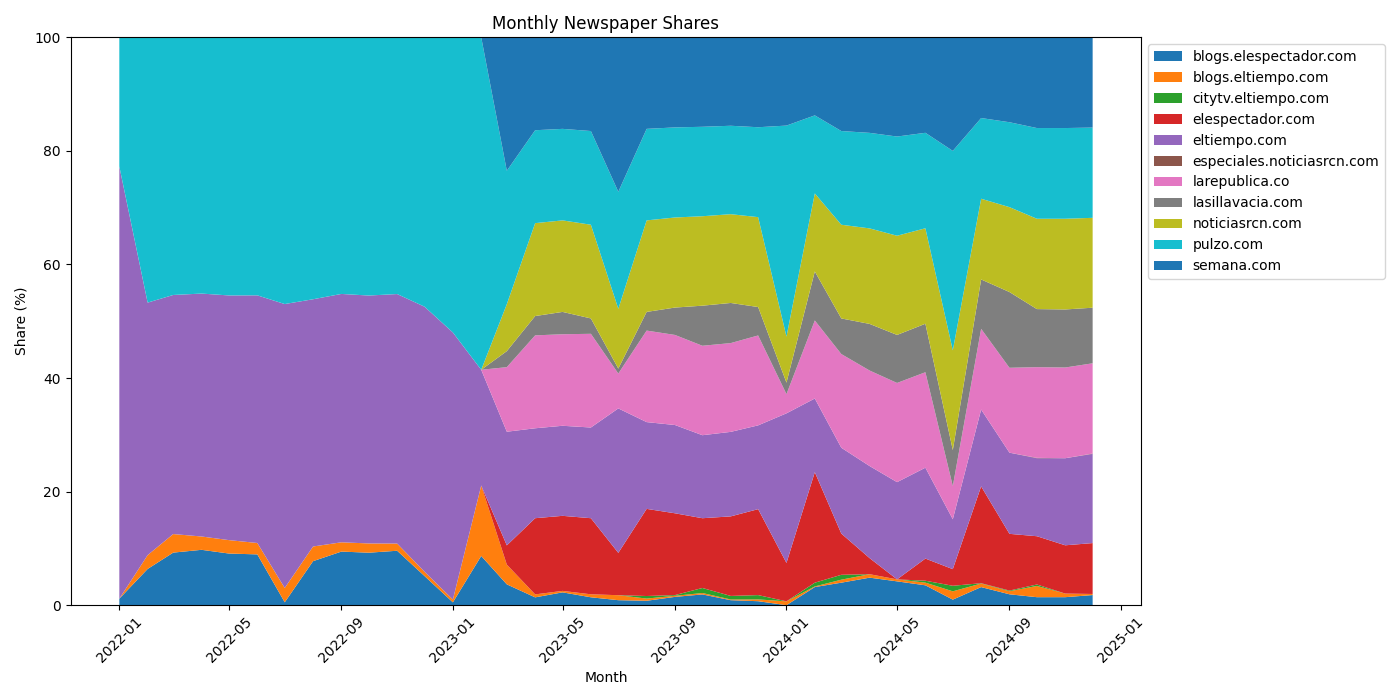
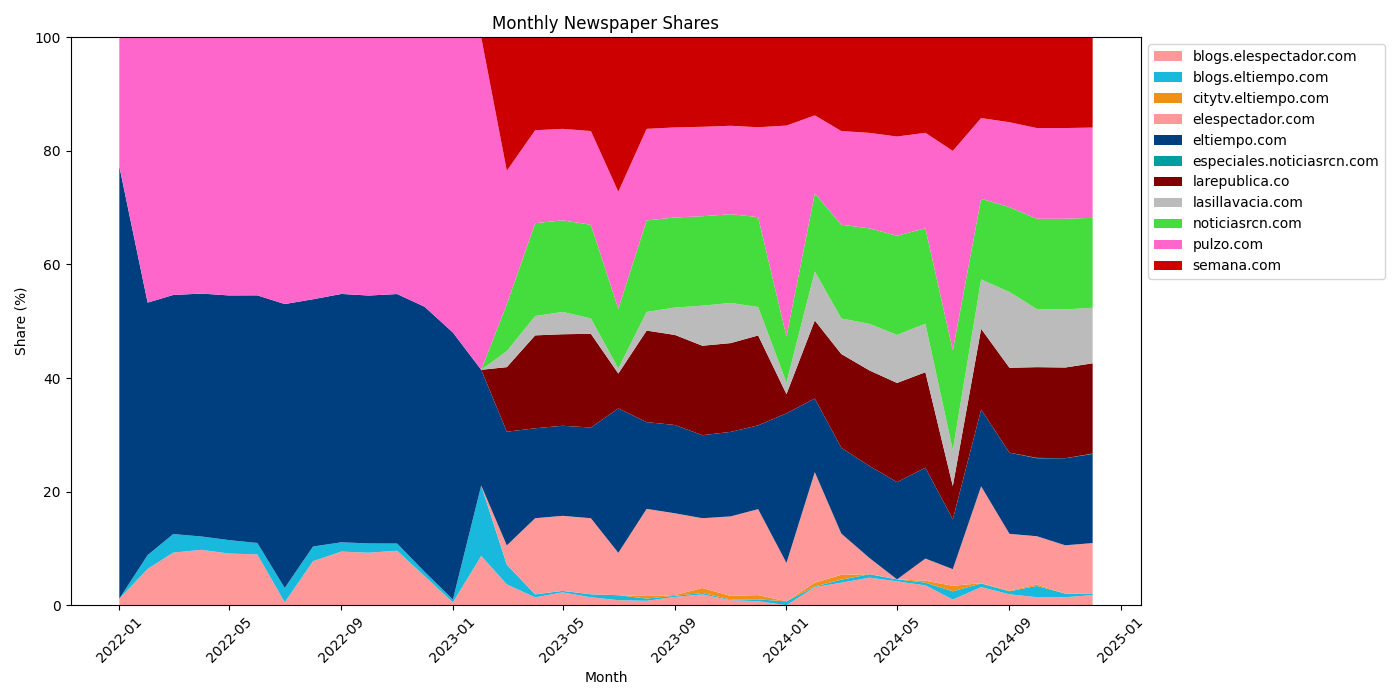
Added new graph and fixed colors

diff --git a/scripts/6_IPEC_newspapers_shares.py b/scripts/6_IPEC_newspapers_shares.py
@@ -1,1 +1,81 @@
-# Permite ver que periodicos son mas "sensacionalistas", o difunden más incertidumbre 
+import pandas as pd
+import unicodedata, re
+
+df_2022 = pd.read_csv("stores/noticias_completas_2022.csv", sep='~')
+df_2023 = pd.read_csv("stores/noticias_completas_2023.csv", sep='~')
+df_2024 = pd.read_csv("stores/noticias_completas_2024.csv", sep='~')
+df = pd.concat([df_2022, df_2023, df_2024], ignore_index=True)
+
+categories = {
+    "Uncertainty": ["incertidumbre", "incierto", "incierta"], 
+    "Economy": ["economia", "economico", "economica"],
+    "Policy": [
+        # Fiscal
+        "gobierno", "politica fiscal", "presupuesto", "deficit fiscal",
+        "deuda publica", "impuesto", "tributaria", "tributario",
+        "ministerio de hacienda", "gasto publico",
+        # Monetary
+        "politica monetaria", "banco de la republica", "emisor",
+        # Trade
+        "arancel", "arancelaria", "aranceles", "politica comercial"
+    ]
+}
+
+df["fecha"] = pd.to_datetime(df["fecha"])
+df = df[df["texto"].notna() & (df["texto"] != "")]
+
+def clean_text(text):
+    if pd.isna(text):
+        return ""
+    text = unicodedata.normalize("NFKD", text).encode("ascii", "ignore").decode("utf-8")
+    text = text.lower()
+    text = re.sub(r"[^a-z0-9\s]", " ", text)
+    return text
+
+df["clean"] = (df["titulo"].fillna("") + " " + df["texto"].fillna("")).apply(clean_text)
+
+def contains_any(text, keywords):
+    return any(kw in text for kw in keywords)
+
+df["has_uncertainty"] = df["clean"].apply(lambda x: contains_any(x, categories["Uncertainty"]))
+df["has_economy"] = df["clean"].apply(lambda x: contains_any(x, categories["Economy"]))
+df["has_policy"] = df["clean"].apply(lambda x: contains_any(x, categories["Policy"]))
+
+# IPEC criteria
+df["selected"] = df["has_uncertainty"] & df["has_economy"] & df["has_policy"]
+
+domains = [
+    "https://blogs.elespectador.com",
+    "https://blogs.eltiempo.com",
+    "https://citytv.eltiempo.com",
+    "https://especiales.noticiasrcn.com",
+    "https://www.elespectador.com",
+    "https://www.eltiempo.com",
+    "https://www.larepublica.co",
+    "https://www.lasillavacia.com",
+    "https://www.noticiasrcn.com",
+    "https://www.pulzo.com",
+    "https://www.semana.com"
+]
+
+df = df[df["url"].str.startswith(tuple(domains), na=False)]
+
+df_selected = df[df["selected"]].copy()
+
+# Newspapers shares for IPEC-selected articles
+df_selected["year_month"] = df_selected["fecha"].dt.to_period("M")
+
+df_selected["domain"] = df_selected["url"].str.extract(
+    r"https?://(?:www\.)?([^/\s]+)", re.IGNORECASE
+)
+
+shares_selected = (
+    df_selected.groupby(["year_month", "domain"])
+    .size()
+    .unstack(fill_value=0)
+)
+
+# Save output
+shares_selected.reset_index().to_csv(
+    "stores/newspapers_shares_IPEC_selected.csv", index=False
+)

diff --git a/scripts/9_visualizations.py b/scripts/9_visualizations.py
@@ -53,25 +53,49 @@ plt.tight_layout()
 plt.savefig("figures/IPEC_comparison_el_tiempo_2022_2024.png")
 
 # Plot 3 - Newspaper Shares Stacked Area Chart
+
+colors = {
+    "elespectador.com": "#ff9999",   
+    "blogs.elespectador.com": "#ff9999",
+
+    "eltiempo.com": "#003f7f",      
+    "blogs.eltiempo.com": "#18b9dd",
+    "citytv.eltiempo.com": "#f18f18",
+
+    "larepublica.co": "#7f0000",     
+
+    "noticiasrcn.com": "#45dd3d",    
+    "especiales.noticiasrcn.com": "#009e9e",
+
+    "pulzo.com": "#ff66cc",         
+
+    "semana.com": "#cc0000",         
+}
+
+def get_color_list(df):
+    return [colors.get(col, "#bbbbbb") for col in df.columns]  # fallback = gray
+
+
 plt.clf()
 df = pd.read_csv("stores/newspapers_shares.csv")
 
 df["year_month"] = pd.to_datetime(df["year_month"])
-
-# Set index
 df = df.set_index("year_month")
 
-# Normalize each row to 100% (share)
+# Normalize to row shares (percentages)
 shares = df.div(df.sum(axis=1), axis=0) * 100
 
-# Plot
 plt.figure(figsize=(14, 7))
-plt.stackplot(shares.index, shares.T, labels=shares.columns)
+plt.stackplot(
+    shares.index,
+    shares.T,
+    labels=shares.columns,
+    colors=get_color_list(shares)
+)
 
 plt.title("Monthly Newspaper Shares")
 plt.ylabel("Share (%)")
 plt.xlabel("Month")
-
 plt.xticks(rotation=45)
 plt.ylim(0, 100)
 
@@ -81,7 +105,36 @@ plt.tight_layout()
 plt.savefig("figures/newspaper_shares_stacked_area.png")
 
 
-# Plot 4 - Monthly Sector Distribution Stacked Bar Charts
+# Plot 4 - Newspaper Shares IPEC Stacked Area Chart
+plt.clf()
+df = pd.read_csv("stores/newspapers_shares_IPEC_selected.csv")
+
+df["year_month"] = pd.to_datetime(df["year_month"])
+df = df.set_index("year_month")
+
+# Normalize to row shares (percentages)
+shares = df.div(df.sum(axis=1), axis=0) * 100
+
+plt.figure(figsize=(14, 7))
+plt.stackplot(
+    shares.index,
+    shares.T,
+    labels=shares.columns,
+    colors=get_color_list(shares)
+)
+
+plt.title("Monthly Newspaper Shares (IPEC-selected articles)")
+plt.ylabel("Share (%)")
+plt.xlabel("Month")
+plt.xticks(rotation=45)
+plt.ylim(0, 100)
+
+plt.legend(loc="upper left", bbox_to_anchor=(1, 1))
+plt.tight_layout()
+
+plt.savefig("figures/newspaper_shares_IPEC_selected_stacked_area.png")
+
+# Plot 5 - Monthly Sector Distribution Stacked Bar Charts
 plt.clf()
 df = pd.read_csv("stores/IPEC_sector_monthly_counts.csv")
 
@@ -153,7 +206,7 @@ fig.suptitle("Distribución mensual por sector de noticias de incertidumbre (202
 plt.tight_layout()
 plt.savefig("figures/monthly_sector_distribution_stacked_bars.png")
 
-# Graph 5 - Annual Sector Distribution Stacked Bar Chart
+# Plot 6 - Annual Sector Distribution Stacked Bar Chart
 
 df_pct["year"] = df_pct["year_month"].dt.year
 df_year = df_pct.groupby("year")[main_sectors].sum()
